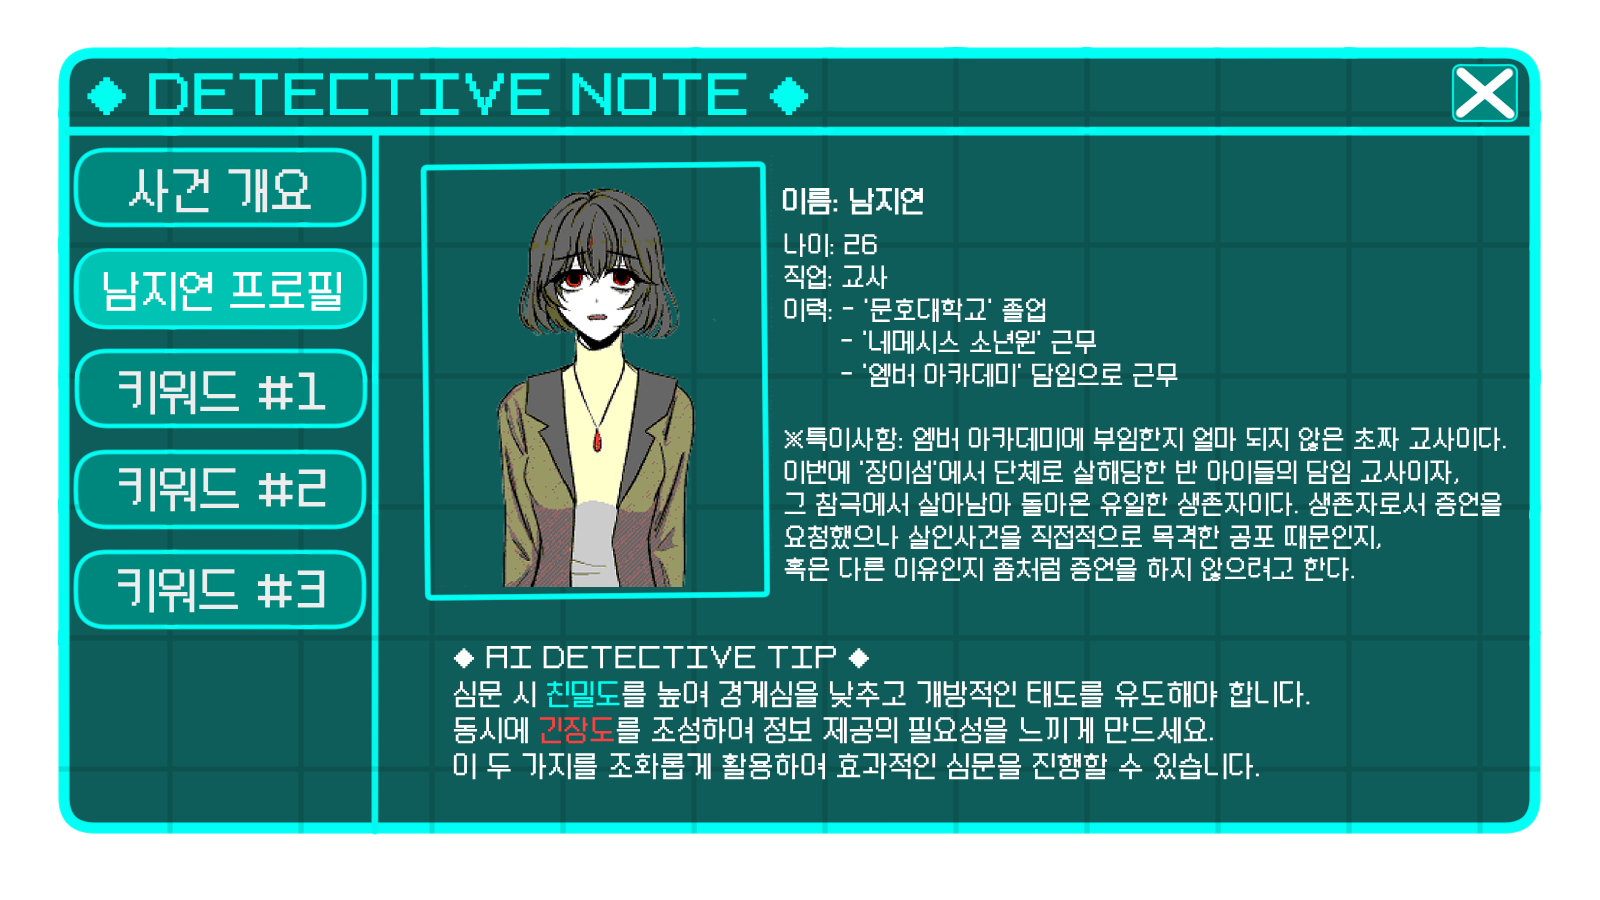
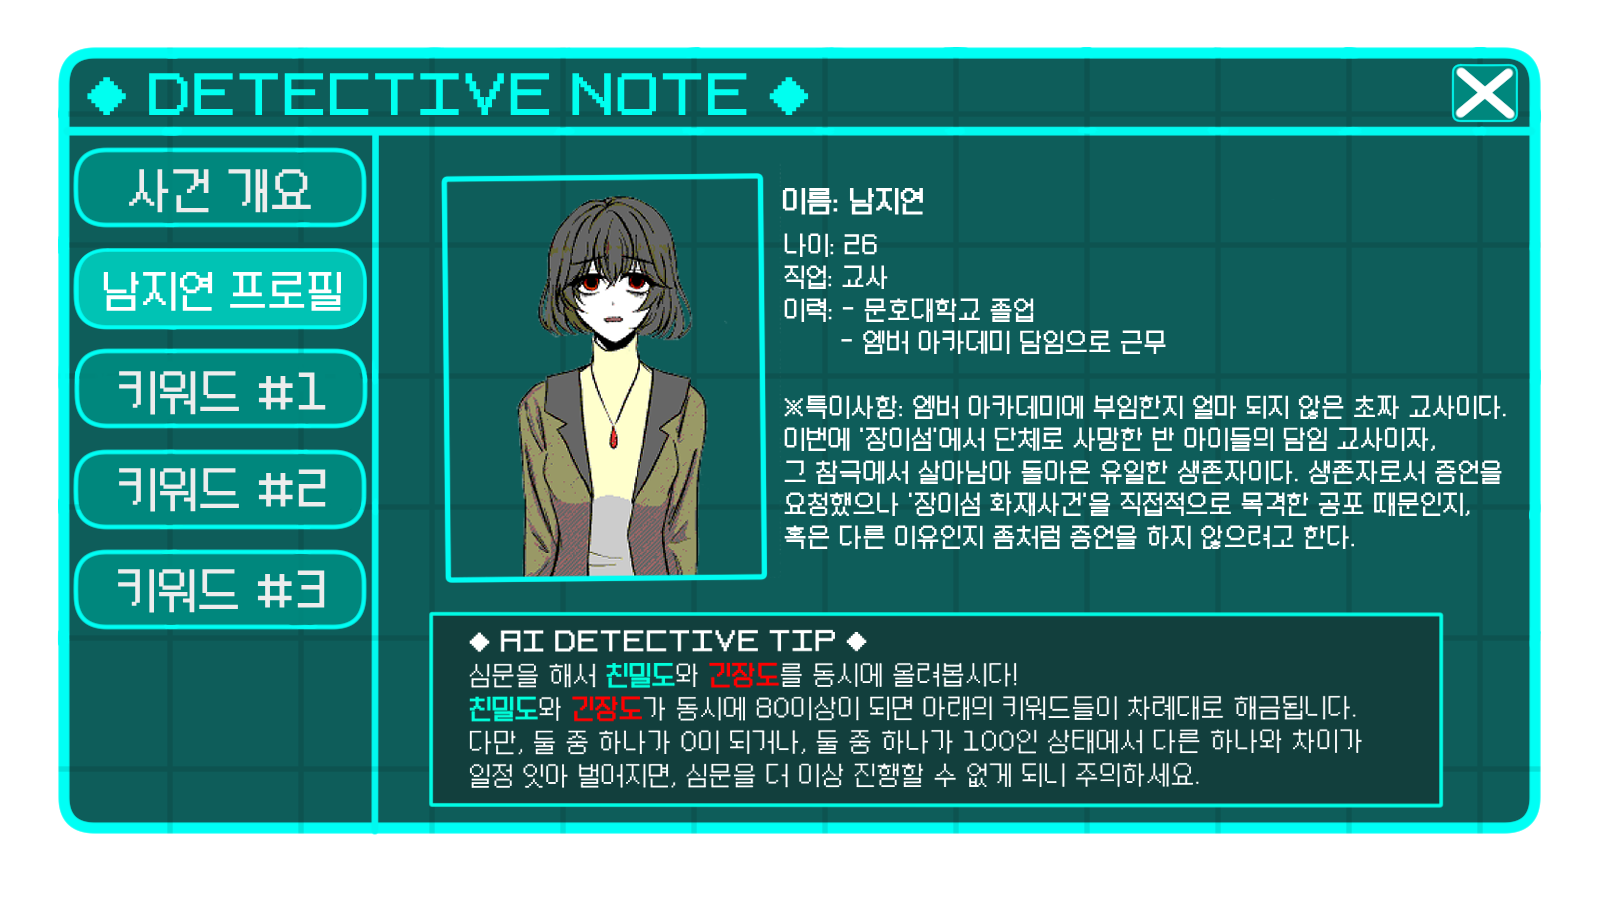
키워드 해금될 때 전환 텍스트+진엔딩

Changed region(s): [[0.25, 0.1556, 0.9375, 0.9022]]

diff --git a/sketch.js b/sketch.js
@@ -18,6 +18,8 @@ function preload() {
     loadCharacterImages();
     loadSystemPrompt();
     preloadNote();
+    preloadKeywordBriefing();
+    preloadEndingSequence();
 
     console.log("preload() 완료.");
 }
@@ -61,6 +63,9 @@ function setup() {
     noteButton();
     setupNote();
 
+     // 인트로 시작 시 0번 장면의 대화를 로드합니다.
+    lines = getSceneLines(scene);
+    
     // 도움말 UI 셋업
     createHelpButton();
 
@@ -104,7 +109,12 @@ function draw() {
     if (gameState === "intro") {
         hideMainUI(); // 인트로 상태에서는 메인 UI를 숨깁니다.
         drawIntro();  // 인트로 화면만 그립니다. (intro.js)
-    } else { // gameState === "main"
+    }else if (gameState === "keywordBriefing"){
+        hideMainUI();
+        drawKeywordBriefing();
+        return;
+    } 
+    else { // gameState === "main"
         showMainUI(); // 메인 게임 상태에서는 UI를 표시합니다.
         
         // 현재 장면에 맞는 배경 이미지를 그립니다.
@@ -126,9 +136,11 @@ function draw() {
         // 탐정 노트를 그립니다 (detective-note.js에 정의).
         drawNote();
 
-        // 도움말 창을 그립니다.
+		// 도움말 창을 그립니다.
         drawHelpUI();
-      
+        
+        // 메인 게임 상태일 때 알림 그리기
+        drawNoteNotification(); // 새로 추가할 함수 호출
     }
 }
 
@@ -146,18 +158,94 @@ function mousePressed() {
         }
         return;
     }
-    if (gameState === "intro") {
+    if (gameState === "intro" || gameState === "keywordBriefing") {
         // 인트로 화면의 마우스 클릭은 intro.js에서 직접 처리하고,
         // 게임 상태 전환이 필요한지 여부만 반환받습니다.
         const shouldTransition = handleIntroScreenClick(); // intro.js의 함수 호출
         if (shouldTransition) {
-            gameState = "main"; // 메인 게임으로 전환
-            console.log("게임 상태가 'main'으로 전환되었습니다.");
+            if (gameState === "intro"){
+                gameState = "main"; // 메인 게임으로 전환
+                console.log("게임 상태가 'main'으로 전환되었습니다.");
+            } else if (gameState === "keywordBriefing"){
+                gameState = "main"; //메인 게임으로 전환
+                // 키워드 해금 뒤 다음 장면 전환
+                currentSceneIndex = (currentSceneIndex + 1) % backgroundImages.length; //다음 배경으로
+                console.log(`게임 상태 'main'으로 복귀. 배경 전환: ${currentSceneIndex}`);
+
+            // 키워드 브리핑 완료 후, 탐정 노트 알림 활성화
+                if (keyWordReveal > 0) { // 최소한 하나의 키워드가 해금된 경우
+                    showNoteNotification = true;
+                    noteNotificationText = `새로운 키워드 [키워드 #${keyWordReveal}]가 탐정 노트에 해금되었습니다!`;
+                    console.log("탐정 노트 알림 활성화:", noteNotificationText);
+                }
+            }
         }
+
     } else {
+        // 알림이 표시되어 있을 때 알림 클릭 처리
+        if (showNoteNotification) {
+            // 알림 영역을 클릭했는지 확인 (대략적인 위치로 설정)
+            let notifX = width / 2 - 200;
+            let notifY = height / 2 - 50;
+            let notifW = 400;
+            let notifH = 100;
+            if (mouseX > notifX && mouseX < notifX + notifW &&
+                mouseY > notifY && mouseY < notifY + notifH) {
+                showNoteNotification = false; // 알림 닫기
+                console.log("탐정 노트 알림 닫힘.");
+                return; // 알림을 닫았으므로 다른 mousePressed 로직은 실행하지 않음
+            }
+        }
+        // 키워드 브리핑 대기 중일 때, 클릭 시 브리핑으로 전환
+        // 이 조건은 알림 닫기 로직 다음에 와야 합니다.
+        if (keywordBriefingPending) {
+           
+
+            // 현재는 화면 아무 곳이나 클릭해도 브리핑으로 넘어갑니다.
+            console.log("브리핑 대기 중: 클릭 감지. 키워드 브리핑 모드로 전환.");
+            gameState = "keywordBriefing"; // 키워드 브리핑 모드로 전환
+            keywordBriefingPending = false; // 대기 상태 해제
+
+            // 브리핑 화면 타이핑 효과를 위한 변수 초기화
+            displayedText = ""; 
+            charIndex = 0;
+            lineIndex = 0;
+            nextCharTime = millis(); // 즉시 타이핑 시작
+            typingSpeed = 30; // 브리핑 타이핑 속도 (intro.js에서 사용)
+
+            return; // 브리핑으로 전환했으므로 다른 mousePressed 로직은 실행하지 않음
+        }
+
         // 메인 게임 상태에서는 탐정 노트 관련 마우스 이벤트를 처리합니다.
-        mousePressedNote(); // detective-note.js의 함수 호출
+        mousePressedNote(); 
         handleHelpMousePressed();
+    }
+}
+
+// 탐정 노트 알림을 그리는 함수
+function drawNoteNotification() {
+    if (showNoteNotification) {
+        // 알림 패널 위치 및 크기 설정
+        let notifX = width / 2 - 200;
+        let notifY = height / 2 - 50;
+        let notifW = 400;
+        let notifH = 100;
+
+        // 알림 배경 (반투명 검은색)
+        fill(0, 0, 0, 200);
+        rect(notifX, notifY, notifW, notifH, 10); // 둥근 모서리
+
+        // 알림 텍스트
+        fill(255); // 흰색
+        textSize(18);
+        textAlign(CENTER, CENTER);
+        text(noteNotificationText, notifX + notifW / 2, notifY + notifH / 2);
+
+        // 닫기 안내 문구
+        textSize(14);
+        fill(150); // 회색
+        textAlign(CENTER, BOTTOM);
+        text("(클릭하여 닫기)", notifX + notifW / 2, notifY + notifH - 10);
     }
 }
 

diff --git a/keyword-briefing.js b/keyword-briefing.js
@@ -1,0 +1,87 @@
+// keyword-briefing.js
+
+let keywordBriefingIndex = 0; // 0: 키워드1, 1: 키워드2, 2: 키워드3
+let keywordBriefingLines = [];
+let keywordBriefingDisplayed = "";
+let keywordBriefingCharIndex = 0;
+let keywordBriefingLineIndex = 0;
+let keywordBriefingNextCharTime = 0;
+let keywordBriefingTypingSpeed = 30;
+let keywordBriefingFont;
+
+function preloadKeywordBriefing() {
+    keywordBriefingFont = loadFont("Bold.ttf"); // 폰트 경로 맞게 수정
+}
+
+function setupKeywordBriefing(idx) {
+    keywordBriefingIndex = idx;
+    keywordBriefingLines = getKeywordBriefingLines(idx);
+    keywordBriefingDisplayed = "";
+    keywordBriefingCharIndex = 0;
+    keywordBriefingLineIndex = 0;
+    keywordBriefingNextCharTime = 0;
+}
+
+function drawKeywordBriefing() {
+    background(0);
+    textFont(keywordBriefingFont);
+    textSize(24);
+    fill(255);
+    textAlign(CENTER, TOP);
+
+    // 텍스트 중앙 정렬
+    let linesCount = keywordBriefingDisplayed.split('\n').length;
+    let lineHeight = 36;
+    let totalHeight = linesCount * lineHeight;
+    let yStart = (height - totalHeight) / 2;
+
+    text(keywordBriefingDisplayed, width / 2, yStart);
+
+    // 타이핑 효과
+    if (millis() > keywordBriefingNextCharTime && keywordBriefingLineIndex < keywordBriefingLines.length) {
+        if (keywordBriefingCharIndex < keywordBriefingLines[keywordBriefingLineIndex].length) {
+            keywordBriefingDisplayed += keywordBriefingLines[keywordBriefingLineIndex][keywordBriefingCharIndex];
+            keywordBriefingCharIndex++;
+        } else {
+            if (keywordBriefingLineIndex < keywordBriefingLines.length - 1) {
+                keywordBriefingDisplayed += "\n";
+            }
+            keywordBriefingLineIndex++;
+            keywordBriefingCharIndex = 0;
+        }
+        keywordBriefingNextCharTime = millis() + keywordBriefingTypingSpeed;
+    }
+}
+
+// 키워드별 브리핑 텍스트 반환
+function getKeywordBriefingLines(idx) {
+    if (idx === 0) {
+        return ["다음날 남지연씨를 근처 카페에서 만났다."];
+    } else if (idx === 1) {
+        return ["사건의 가장 핵심을 밝혀내기 위해 남지연씨를 데리고 장이섬에 갔다."];
+    } else if (idx === 2) {
+        return [
+            "그러면 지금까지의 이야기를 종합해보면 다음과 같다.",
+            "",
+            "촉법 범죄로 딸을 잃은 고유미는 교사로 잠입해 <잔화 프로토콜> 프로젝트에 참여했지만, 실상은 교화를 부정하고 죽은 딸에 대한 트라우마와 분노로 인해, 학생들을 사고로 위장해 제거하려는 척결극을 위한 계획이었다.",
+            "",
+            "결국 수학여행 날 인적이 드문 산 속 창고에 ‘장기자랑’을 명분으로 모두를 가두고 자신까지 한번에 죽는 방화 살인을 저질렀다.",
+            "",
+            "다만 남지연은 살기를 바라는 마음에 따로 빼돌렸다…"
+        ];
+    }
+    return [];
+}
+
+// 클릭 시 전체 출력 또는 다음 씬 전환
+function handleKeywordBriefingClick() {
+    if (keywordBriefingLineIndex < keywordBriefingLines.length) {
+        // 타이핑 중이면 즉시 전체 출력
+        keywordBriefingDisplayed = keywordBriefingLines.join("\n");
+        keywordBriefingLineIndex = keywordBriefingLines.length;
+        keywordBriefingCharIndex = 0;
+        return false;
+    }
+    // 모두 출력된 후 클릭 시 메인 게임으로 전환
+    return true;
+}

diff --git a/ending-sequence.js b/ending-sequence.js
@@ -1,0 +1,98 @@
+// ending-sequence.js
+
+let endingSequence = [
+    { type: "image", src: "assets/namjiyeon.jpeg" },
+    { type: "text", text: "그런데요 수사관님," },
+    { type: "image", src: "assets/transition1.png" },
+    { type: "image", src: "assets/transition2.png" },
+    { type: "image", src: "assets/transition3.png" },
+    { type: "image", src: "assets/transition4.png" },
+    { type: "text", text: "그리고 장이섬에는.." },
+    { type: "image", src: "assets/namjiyeon_redeyes.png" },
+    { type: "text", text: "아무도 없었거든요." },
+    { type: "text", text: "끝" }
+];
+
+let endingImages = [];
+let endingStep = 0;
+let endingTextDisplayed = "";
+let endingCharIndex = 0;
+let endingNextCharTime = 0;
+let endingTypingSpeed = 30;
+let endingFont;
+let endingActive = false;
+
+function preloadEndingSequence() {
+    endingFont = loadFont("Bold.ttf");
+    // 이미지 미리 로드
+    for (let item of endingSequence) {
+        if (item.type === "image") {
+            endingImages[item.src] = loadImage(item.src);
+        }
+    }
+}
+
+function setupEndingSequence() {
+    endingStep = 0;
+    endingTextDisplayed = "";
+    endingCharIndex = 0;
+    endingNextCharTime = 0;
+    endingActive = true;
+}
+
+function drawEndingSequence() {
+    background(0);
+    textFont(endingFont);
+    textSize(32);
+    fill(255);
+    textAlign(CENTER, CENTER);
+
+    let item = endingSequence[endingStep];
+    if (!item) return;
+
+    if (item.type === "image") {
+        let img = endingImages[item.src];
+        if (img) {
+            let imgW = width * 0.7;
+            let imgH = img.height * (imgW / img.width);
+            image(img, width/2 - imgW/2, height/2 - imgH/2, imgW, imgH);
+        } else {
+            fill(255,0,0);
+            text("이미지 로드 실패: " + item.src, width/2, height/2);
+        }
+    } else if (item.type === "text") {
+        // 타이핑 효과
+        if (endingCharIndex < item.text.length && millis() > endingNextCharTime) {
+            endingTextDisplayed += item.text[endingCharIndex];
+            endingCharIndex++;
+            endingNextCharTime = millis() + endingTypingSpeed;
+        }
+        text(endingTextDisplayed, width/2, height/2);
+    }
+}
+
+function handleEndingSequenceClick() {
+    let item = endingSequence[endingStep];
+    if (!item) return;
+
+    if (item.type === "text" && endingCharIndex < item.text.length) {
+        // 타이핑 중이면 즉시 전체 출력
+        endingTextDisplayed = item.text;
+        endingCharIndex = item.text.length;
+        return;
+    }
+    // 다음 단계로
+    endingStep++;
+    if (endingStep >= endingSequence.length) {
+        endingActive = false;
+        // 엔딩 종료 후 원하는 상태로 전환 (예: 게임 재시작, 엔딩 화면 등)
+        // gameState = "start";
+        return;
+    }
+    // 다음 텍스트 준비
+    if (endingSequence[endingStep].type === "text") {
+        endingTextDisplayed = "";
+        endingCharIndex = 0;
+        endingNextCharTime = 0;
+    }
+}

diff --git a/game-core.js b/game-core.js
@@ -44,6 +44,45 @@ function checkGameOver() {
     }
 }
 
+function revealKeyWord(response, userText)
+{
+    switch (keyWordReveal)
+    {
+        case 0:
+            // 1번 키워드
+            setDialogueText(response + "\n\n저, 수사관님. 수사에 도움이 될진 모르겠지만 말씀드리고 싶은 것이 있는데요...\n(그녀가 중요한 이야기를 하려는 것 같다.)", userText); 
+            keyWordReveal++;
+            unlockKeyword("키워드 #1");
+            setupKeywordBriefing(0);
+            gameState = "keywordBriefing";
+            console.log(keywordUnlocked)
+            break;
+        case 1:
+            // 2번 키워드
+            setDialogueText(response + "\n\n그런데 수사관님. 혹시 이 정보가 도움이 될까요?\n(그녀가 중요한 이야기를 하려는 것 같다.)", userText); 
+            keyWordReveal++;
+            unlockKeyword("키워드 #2");
+            setupKeywordBriefing(1);
+            gameState = "keywordBriefing";
+            console.log(keywordUnlocked)
+            break;
+        case 2:
+            // 3번 키워드
+            setDialogueText(response + "\n\n그런데 저, 그, 사실은... 아까 미처 말씀 못 드린 부분이 있는데...\n(그녀가 중요한 이야기를 하려는 것 같다.)", userText); 
+            keyWordReveal++;
+            unlockKeyword("키워드 #3");
+            setupKeywordBriefing(2);
+            gameState = "keywordBriefing";
+            setupEndingSequence();
+            endingActive = true;
+
+            console.log(keywordUnlocked)
+            break;
+        default:
+            break;
+    }
+
+}
 
 function checkStatus() {
     if (tensionScore - affinityScore >= difference) {

diff --git a/index.html b/index.html
@@ -57,9 +57,11 @@
     <script src="game-utilities.js"></script> 
     <script src="conversation-UI.js"></script>
     <script src="detective-note.js"></script>
+    <script src="start.js"></script>
     <script src="intro.js"></script>
     <script src="help-message.js"></script>
-    <script src="start.js"></script>
+    <script src="keyword-briefing.js"></script>
+    <script src="ending-sequence.js"></script>
     <script src="sketch.js"></script>
 </body>
 </html>
